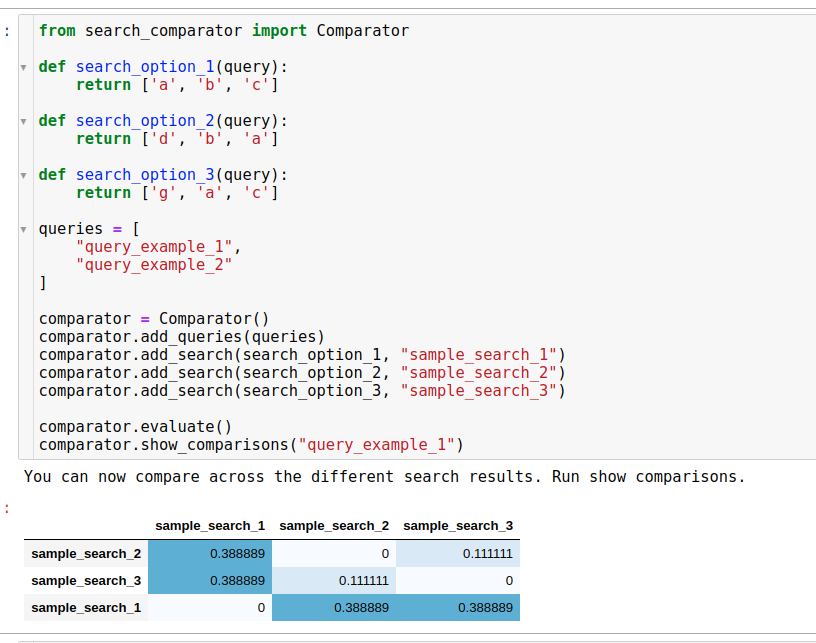
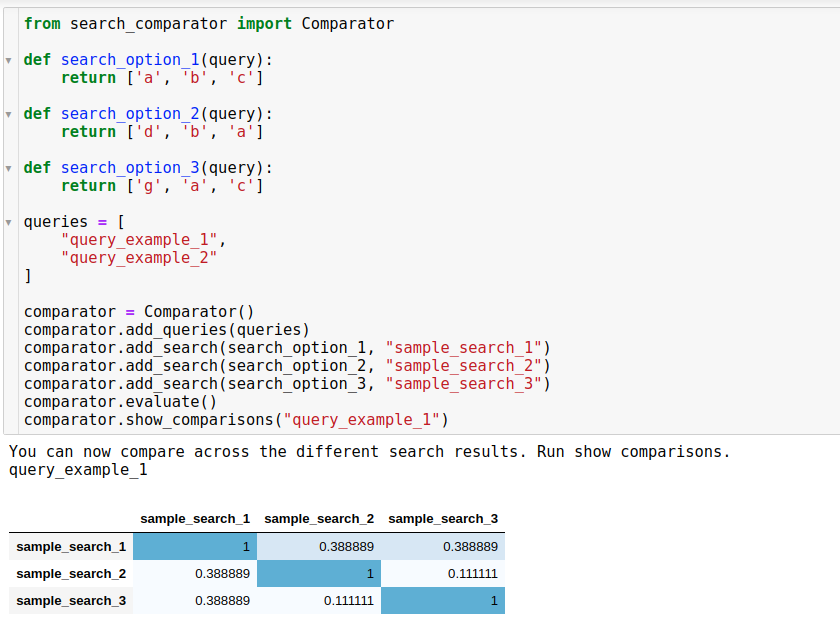
version up package

diff --git a/search_comparator/comparator.py b/search_comparator/comparator.py
@@ -1,6 +1,7 @@
 """Evaluator for better search.
 """
 import pandas as pd
+import numpy as np
 from collections import defaultdict
 from typing import Union, Callable
 from .query import Query
@@ -46,7 +47,7 @@ class Comparator:
         for i, (model_name, r) in enumerate(model_results.items()):
             for j, (model_name_2, r_2) in enumerate(model_results.items()):
                 if i == j:
-                    continue
+                    scores[model_name][model_name_2] = np.nan
                 scores[model_name][model_name_2] = self.score(r.to_ids(), r_2.to_ids())
         return scores
     
